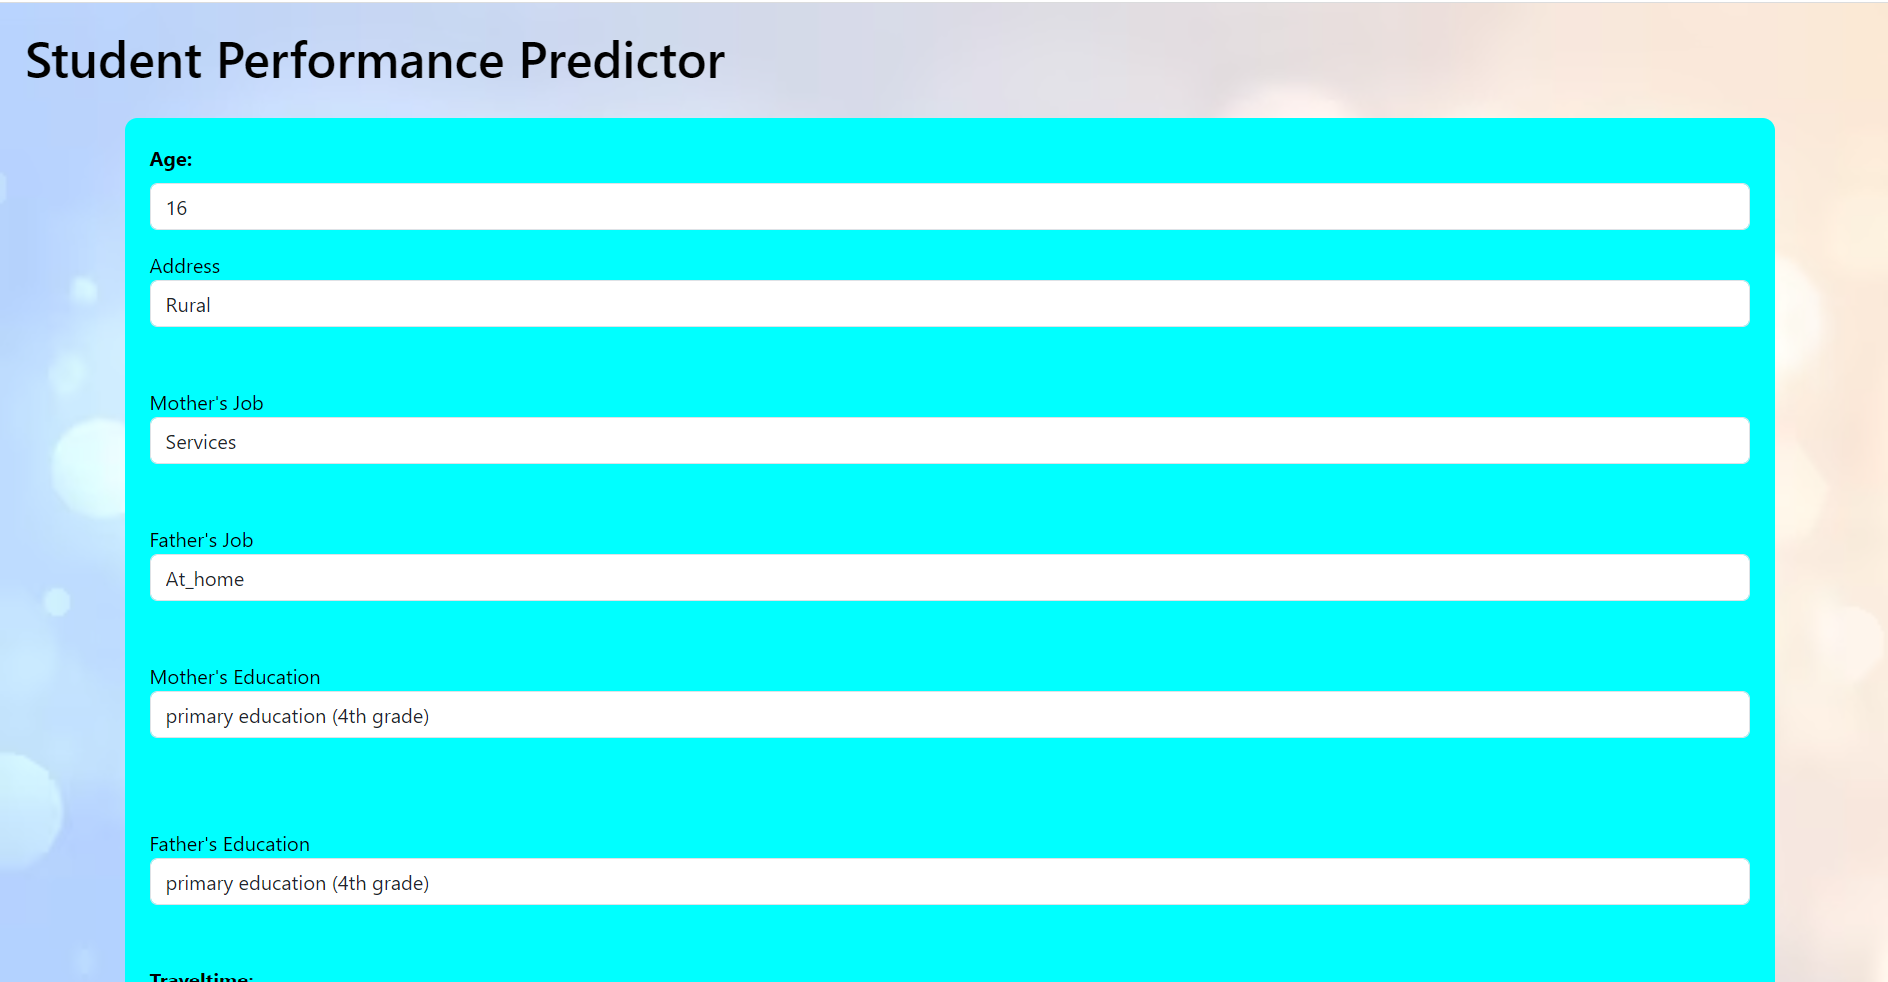
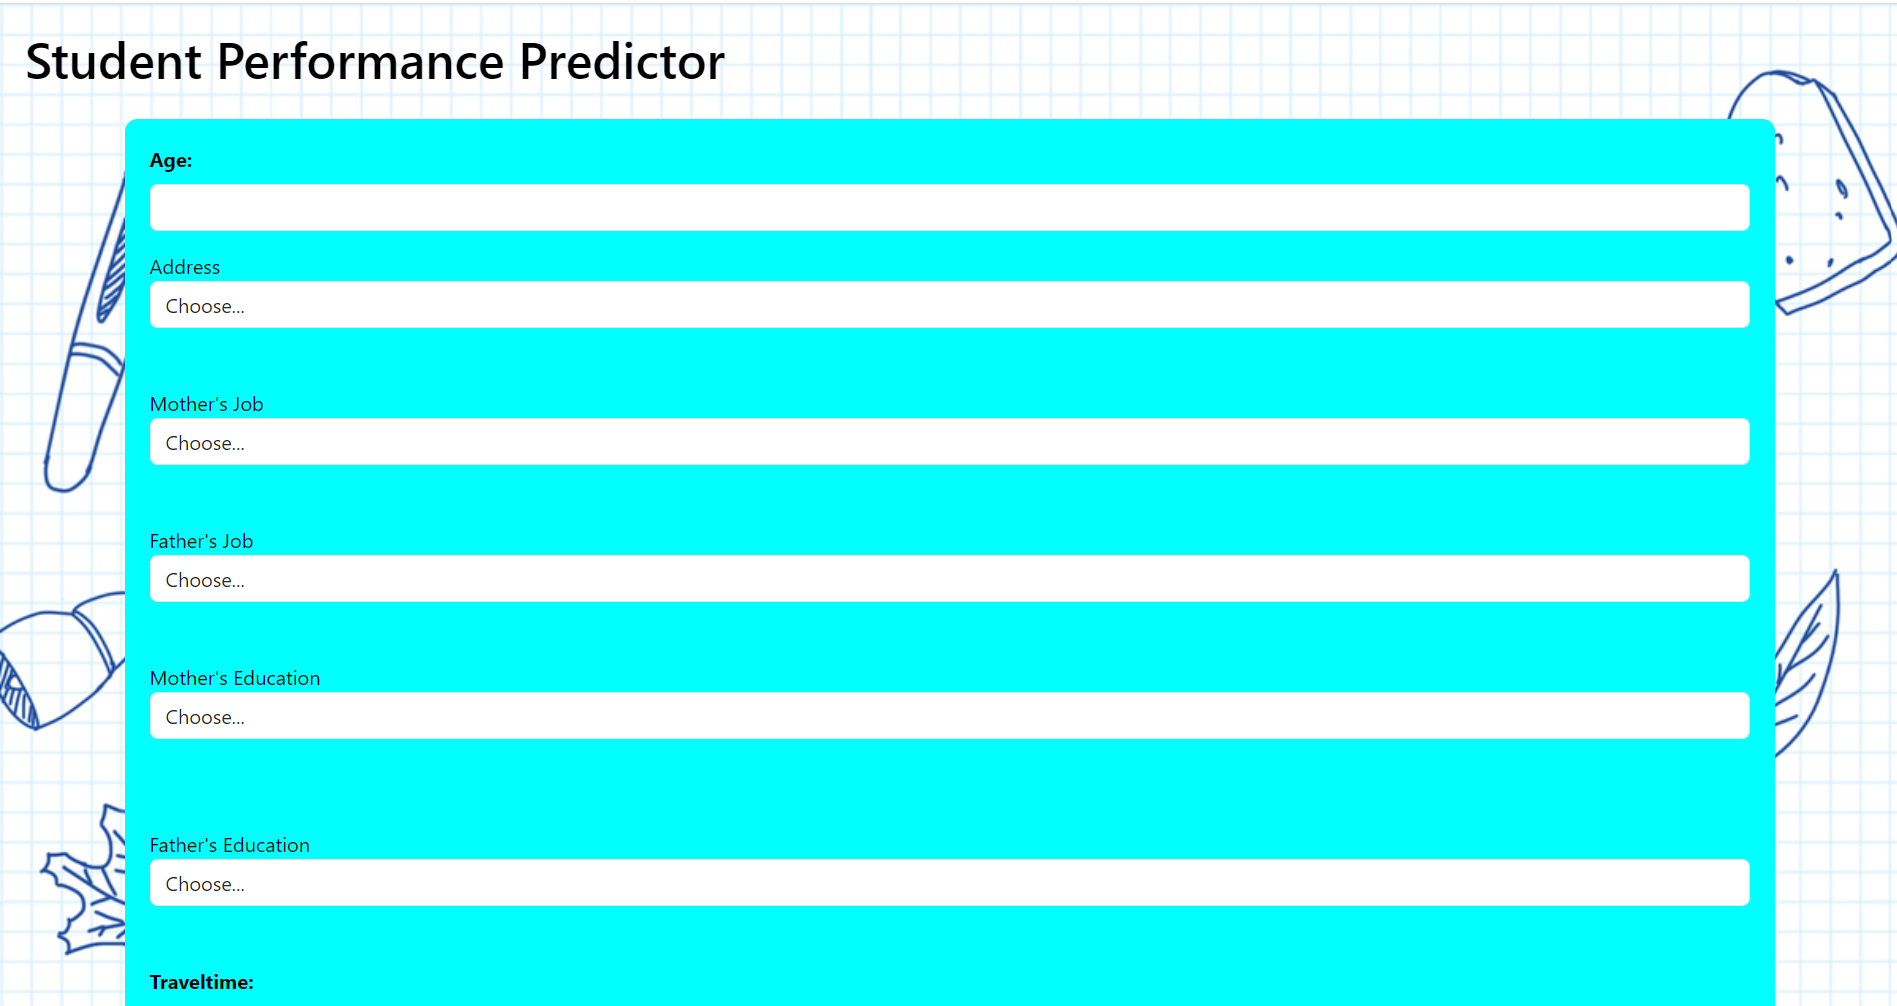
update

diff --git a/Flask Project/templates/result.html b/Flask Project/templates/result.html
@@ -11,7 +11,7 @@
         integrity="sha384-T3c6CoIi6uLrA9TneNEoa7RxnatzjcDSCmG1MXxSR1GAsXEV/Dwwykc2MPK8M2HN" crossorigin="anonymous">
     <style>
         body {
-            background-image: url('https://img.freepik.com/free-vector/blurred-bokeh-pattern-wallpaper-soft-touch-your-walls_1017-43483.jpg');
+            background-image: url('https://png.pngtree.com/background/20210714/original/pngtree-grid-education-line-background-picture-image_1219969.jpg');
             background-size: cover;
             background-repeat: no-repeat;
             background-attachment: fixed;
